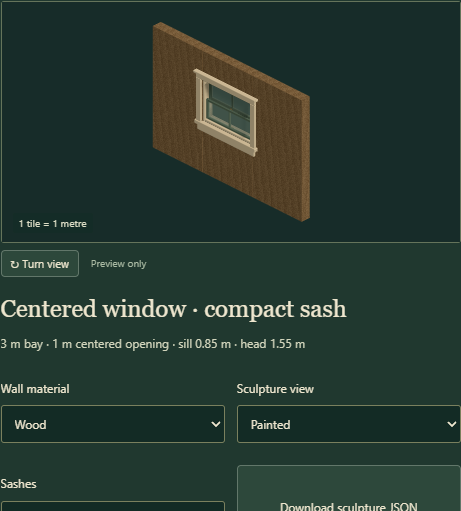
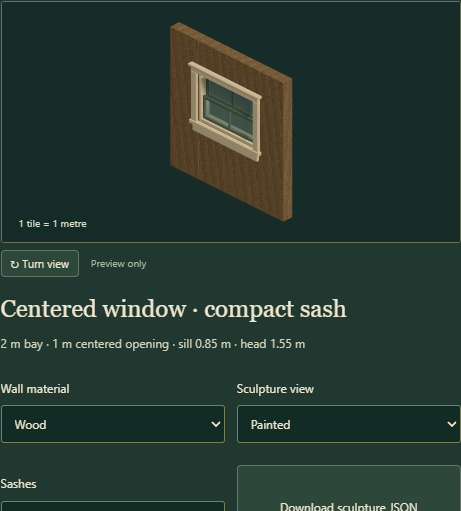
Fit centered window sculptures into 2 m wall bays

Changed region(s): [[0.3341, 0.0294, 0.6985, 0.4403]]

diff --git a/packages/window-kit/index.js b/packages/window-kit/index.js
@@ -9,7 +9,7 @@ export const WINDOW_KIT = freeze({
   version: 1, metresPerUnit: 1, wallWidth: WALL_KIT.panel,
   wallHeight: WALL_KIT.height, wallThickness: WALL_KIT.thickness,
   floorSpacing: WALL_KIT.floorSpacing, openingWidth: 1,
-  frameWidth: .04, span: 3
+  frameWidth: .04, span: 2, segmentWidth: .5
 });
 
 export const WINDOW_BAYS = freeze([
@@ -21,7 +21,7 @@ export const WINDOW_BAYS = freeze([
 
 export const WINDOW_SOURCES = freeze({
   dimensions: {commit: '781246a668c723d5a4c5463e70534cc04b6a5641', path: 'dist/tactics/hybrid-geometry.js',
-    detail: 'Native 2 m wall, 0.16 m thickness, 1 m window width, 0.85–1.55 m compact aperture.'},
+    detail: 'Native 2 m wall height, 0.16 m thickness, 1 m window width, 0.85–1.55 m compact aperture.'},
   periodProfile: {commit: '6693bfa3fea2edec77649d830de5ac68ba4c1a50', path: 'src/art/gross-housing.js',
     detail: 'Preserved 0.35–1.55 m tall sash aperture. New independent window-bay sculpture; no donor geometry altered.'}
 });
@@ -32,13 +32,16 @@ export function compileWindowBay(id) {
   const profile = WINDOW_BAYS.find(p => p.id === id);
   if (!profile) throw Error('Unknown window sculpture: ' + id);
   const {bottom, top, columns, rows} = profile, height = top - bottom;
+  const {span, segmentWidth, openingWidth, wallHeight, wallThickness} = WINDOW_KIT;
+  const segmentCenter = (span-segmentWidth)/2;
   const parts = [], add = (name, group, material, center, size, bevel = 0) => {
     parts.push({name, group, material, shape: 'box', center, size, bevel});
   };
-  add('Left wall segment', 'walls', 'wall', [-1,1,0], [1,2,.16]);
-  add('Right wall segment', 'walls', 'wall', [1,1,0], [1,2,.16]);
-  add('Wall below window', 'walls', 'wall', [0,bottom/2,0], [1,bottom,.16]);
-  add('Wall lintel', 'walls', 'wall', [0,(top+2)/2,0], [1,2-top,.16]);
+  // Cut half-metre flanks; preserve the opening, frame and metre texture scale.
+  add('Left wall segment', 'walls', 'wall', [-segmentCenter,wallHeight/2,0], [segmentWidth,wallHeight,wallThickness]);
+  add('Right wall segment', 'walls', 'wall', [segmentCenter,wallHeight/2,0], [segmentWidth,wallHeight,wallThickness]);
+  add('Wall below window', 'walls', 'wall', [0,bottom/2,0], [openingWidth,bottom,wallThickness]);
+  add('Wall lintel', 'walls', 'wall', [0,(top+wallHeight)/2,0], [openingWidth,wallHeight-top,wallThickness]);
 
   // Fixed jambs line the actual aperture. Face casings sit outside its edges.
   for (const sign of [-1,1]) {
@@ -84,10 +87,10 @@ export function compileWindowBay(id) {
   return {
     format: 'nautilus-window-sculpture-v1', id, name: profile.name, description: profile.description,
     metresPerUnit: 1, axes: {along: 'x', up: 'y', through: 'z'},
-    wall: {width: 3, height: 2, thickness: .16, segmentWidth: 1},
-    opening: {center: [0,(bottom+top)/2,0], width: 1, bottom, top, height,
+    wall: {width: span, height: wallHeight, thickness: wallThickness, segmentWidth},
+    opening: {center: [0,(bottom+top)/2,0], width: openingWidth, bottom, top, height,
       clear: {width: .92, bottom: clearBottom, top: clearTop, height: clearTop-clearBottom}},
-    anchors: {leftJoin: [-1.5,0,0], rightJoin: [1.5,0,0], sill: [0,bottom,0],
+    anchors: {leftJoin: [-span/2,0,0], rightJoin: [span/2,0,0], sill: [0,bottom,0],
       head: [0,top,0], frontNormal: [0,0,1], backNormal: [0,0,-1]},
     traversal: {status: 'deferred', consumerIntegrated: false}, sources: structuredClone(WINDOW_SOURCES), parts
   };

diff --git a/apps/editor/asset-catalog.js b/apps/editor/asset-catalog.js
@@ -9,7 +9,7 @@ import {roofLabel} from '../../vendor/aft/781246a668c723d5a4c5463e70534cc04b6a56
 import {FOLIAGE_PRESETS} from '../../vendor/aft/781246a668c723d5a4c5463e70534cc04b6a5641/dist/tactics/foliage-presets.js';
 import {MAP_LEVELS} from '../../vendor/aft/781246a668c723d5a4c5463e70534cc04b6a5641/dist/tactics/map-layers.js';
 import {ANIMAL_MOTION_CATALOG} from '../../vendor/aft/781246a668c723d5a4c5463e70534cc04b6a5641/dist/tactics/animal-motion-catalog.js';
-import {WINDOW_BAYS} from '../../packages/window-kit/index.js';
+import {WINDOW_BAYS, WINDOW_KIT} from '../../packages/window-kit/index.js';
 
 export const ASSET_CATEGORIES = ['Terrain', 'Objects', 'Roofs', 'Boundaries', 'Windows', 'People', 'Foliage', 'Cliffs', 'Ramps'];
 const readable = id => id.replaceAll('-', ' ').replace(/^./, c => c.toUpperCase());
@@ -36,7 +36,7 @@ export function editorAssets() {
       note:rule.cliff ? 'Corner mask, contour and sand blend are set in Tool options.' : rule.ramp ? 'Place at the lower level with a clear approach and supported upper landing.' : ''});
   }
   for (const id of Object.keys(EDGES)) assets.push({id, category:'Boundaries', name:readable(id), tool:'wall', bindings:{'edge-kind':id}, w:1, h:1});
-  for (const profile of WINDOW_BAYS) assets.push({id:profile.id,category:'Windows',name:profile.name,tool:'window-sculpture',bindings:{},preview:'window-bay',w:3,h:1,
+  for (const profile of WINDOW_BAYS) assets.push({id:profile.id,category:'Windows',name:profile.name,tool:'window-sculpture',bindings:{},preview:'window-bay',w:WINDOW_KIT.span,h:1,
     disabled:'Sculpture preview. Map placement and character traversal are the next step.',
     note:profile.description});
   for (const profile of ANIMAL_MOTION_CATALOG) {

diff --git a/apps/editor/assets.js b/apps/editor/assets.js
@@ -55,7 +55,7 @@ export function installAssetLibrary() {
     const current = ++ticket; selected = asset; loading = true; use.disabled = true;
     $('asset-name').textContent = asset.name;
     const sculpture=kind==='window'?compileWindowBay(asset.id):null;
-    $('asset-footprint').textContent = sculpture ? `3 m bay · 1 m centered opening · sill ${sculpture.opening.bottom} m · head ${sculpture.opening.top} m` : `${asset.category} · ${asset.w} × ${asset.h} ${asset.category === 'Foliage' ? 'brush sample' : 'tile footprint'}`;
+    $('asset-footprint').textContent = sculpture ? `${sculpture.wall.width} m bay · ${sculpture.opening.width} m centered opening · sill ${sculpture.opening.bottom} m · head ${sculpture.opening.top} m` : `${asset.category} · ${asset.w} × ${asset.h} ${asset.category === 'Foliage' ? 'brush sample' : 'tile footprint'}`;
     $('asset-note').textContent = sculpture ? `${asset.note} ${asset.disabled}` : asset.disabled || asset.note || 'Choose this asset, then click or drag in the map to place it. Placement checks apply.';
     windowOptions.hidden=kind!=='window';
     if(sculpture) appearance={wall:$('asset-window-wall').value,finish:$('asset-window-finish').value,sashes:$('asset-window-sashes').value==='installed'};

diff --git a/docs/reviews/2026-10-28-window-sculptures.md b/docs/reviews/2026-10-28-window-sculptures.md
@@ -2,13 +2,15 @@
 
 ## Sources and recommendation
 
-The user requested windows centered between two wall segments, with traversal work later. Prefer a real 1 m opening between equal native 1 m panels, with separate fixed frame, sashes and glass. This makes a reusable art component now and preserves measured anchors for later placement and character work. No actor rules or map schema extension is implemented in this step.
+The user requested windows centered in a 2 m wall, with traversal work later. Use a real 1 m opening between equal 0.5 m wall sections, with separate fixed frame, sashes and glass. This makes a reusable art component now and preserves measured anchors for later placement and character work. No actor rules or map schema extension is implemented in this step.
+
+The initial sculpture used 1 m flanks and was 3 m wide overall. The corrected recipes cut each flank to 0.5 m and move the wall joins to X = −1 / +1 m. They retain the same IDs because these are inspection-only sculptures with no saved map placements. The opening, frame, sashes, wall height/thickness and texture density are unchanged; the complete model is not rescaled.
 
 The compact profile preserves AFT `781246a668c723d5a4c5463e70534cc04b6a5641`, `dist/tactics/hybrid-geometry.js`: wall height 2 m, thickness 0.16 m, aperture 1 m wide from 0.85 to 1.55 m. The period profile preserves the taller aperture from Tinderbox `6693bfa3fea2edec77649d830de5ac68ba4c1a50`, `src/art/gross-housing.js`: 0.35 to 1.55 m. The new sash and frame geometry is engine-owned. Original upstream files, pins and whole-building recipes are unchanged.
 
 ## Accuracy
 
-The two panels remain equal and unscaled. Both openings share the existing head height, native wall dimensions and 2.12 m story interval. The frame models two sash tracks, meeting rails, separate panes, fixed jambs and projecting trim instead of painting a window onto a solid wall. The period profile is preferred provisionally for Tinderbox's period houses; the compact profile remains appropriate for compatibility with the existing tactical room kit.
+The two flanking sections remain equal, with a 0.5 m cut width on each side of the 1 m opening. Both openings share the existing head height, native wall height/thickness and 2.12 m story interval. The frame models two sash tracks, meeting rails, separate panes, fixed jambs and projecting trim instead of painting a window onto a solid wall. The period profile is preferred provisionally for Tinderbox's period houses; the compact profile remains appropriate for compatibility with the existing tactical room kit.
 
 These are compressed game-scale openings inherited from the donor art, not a claim of matching a particular historical blueprint or modern building regulation. No new blueprint reference is inferred. The tall window's frame-clear opening is 0.92 × 1.12 m; the compact one is 0.92 × 0.62 m. Actual character clearance and actions need a separate geometry/gameplay review.
 
@@ -22,9 +24,9 @@ Six-over-six panes, a projecting sill, cream casings and a muted green sash fit 
 
 ## Validation
 
-Geometry checks verify equal panels, exact source-sized openings, copied headless data, closed bevel seams, outward winding, unit normals, physical bounds, continuous wall UV density, and rays through the exposed opening from both faces at 0°, 45° and 90°. Rays also confirm that the flanking panels, sill wall and lintel remain solid. Material and lifecycle checks verify original wall pixels, disposal of owned resources and preservation of borrowed resources. Library checks require preview-only discovery without a substituted legacy map prop.
+Geometry checks verify the 2 m overall bounds and join spacing, equal half-metre flanks, exact source-sized openings, copied headless data, closed bevel seams, outward winding, unit normals, continuous wall UV density, and rays through the exposed opening from both faces at 0°, 45° and 90°. Rays also confirm that the flanking sections, sill wall and lintel remain solid and that the wall stops at the requested bay width. Material and lifecycle checks verify original wall pixels, disposal of owned resources and preservation of borrowed resources. Library checks require 2 m catalog entries and preview-only discovery without a substituted legacy map prop.
 
-The isolated Edge 156.0.4314.50 software-WebGL review passed with 14 captures and no browser or resource errors. It exercised both profiles in wood, brick, clay, exposed-aperture and opposite-face views, plus concrete, JSON download, two close/reopen cycles, switching between native and sculpture renderers, and a 390 × 844 viewport. The map export remained byte-identical and mobile controls had no horizontal overflow. Software rendering establishes visual correctness, not GPU performance. Selected captures and the full capture-hash report are preserved in [assets/window-sculptures](assets/window-sculptures/browser-checks.json); the reproducible review writes all captures to `artifacts/window-kit`.
+The isolated Edge 156.0.4314.50 software-WebGL review passed with 14 refreshed captures and no browser or resource errors. It exercised both profiles in wood, brick, clay, exposed-aperture and opposite-face views, plus concrete, two close/reopen cycles, switching between native and sculpture renderers, and a 390 × 844 viewport. Both downloaded JSON sculptures were verified to have 2 m overall bounds, a 1 m opening, 0.5 m flanks and joins at −1 / +1 m; the inspector also reports the 2 m bay width. The map export remained byte-identical and mobile controls had no horizontal overflow. Software rendering establishes visual correctness, not GPU performance. Selected captures and the full capture-hash report are preserved in [assets/window-sculptures](assets/window-sculptures/browser-checks.json); the reproducible review writes all captures and both `.window.json` exports to `artifacts/window-kit`.
 
 ![Period sash centered between equal brick wall panels](assets/window-sculptures/window-bay-period-brick.png)
 

diff --git a/docs/window-sculptures.md b/docs/window-sculptures.md
@@ -1,6 +1,6 @@
 # Centered window sculptures
 
-Open **Asset library → Windows** to inspect the compact and period sash bays. Each bay puts a 1 m opening exactly between two equal, full-size 1 m wall segments. The complete wall assembly is 3 m wide, 2 m high and 0.16 m thick. All coordinates are metres; the host can translate and rotate the assembly without scaling it. Fixed-frame projections extend to −0.14 / +0.15 m through the wall.
+Open **Asset library → Windows** to inspect the compact and period sash bays. Each bay is **2 m wide in total: 0.5 m wall + 1 m centered opening + 0.5 m wall**. The wall sections are cut to width; the opening, frame and texture scale retain their original dimensions. The assembly is 2 m high and 0.16 m thick, with wall joins at local X = −1 m and +1 m. All coordinates are metres; the host can translate and rotate the assembly without scaling it. Fixed-frame projections extend to −0.14 / +0.15 m through the wall.
 
 | Sculpture | Rough opening | Sill / head | Opening inside the fixed frame | Panes |
 | --- | --- | --- | --- | --- |
@@ -12,6 +12,8 @@ The wall has a real aperture. Its separate solids are the left panel, right pane
 Wood, brick and concrete use the existing pinned wall pixels at one texture repeat per metre. The masonry UV phase continues across the panels, sill wall and lintel. Cream casings and muted green sashes follow the workshop's existing visual palette. Clay mode makes the shape readable without wall paint.
 
 ## Reuse
+
+The sculpture recipes and headless JSON compiler are in `packages/window-kit/index.js`; the renderer is in `packages/window-kit/three.js`. The IDs are `window-bay-compact` and `window-bay-period`. Both use the same 2 m overall width.
 
 ```js
 import {compileWindowBay} from '@nautilus-engine/map-core/windows';
